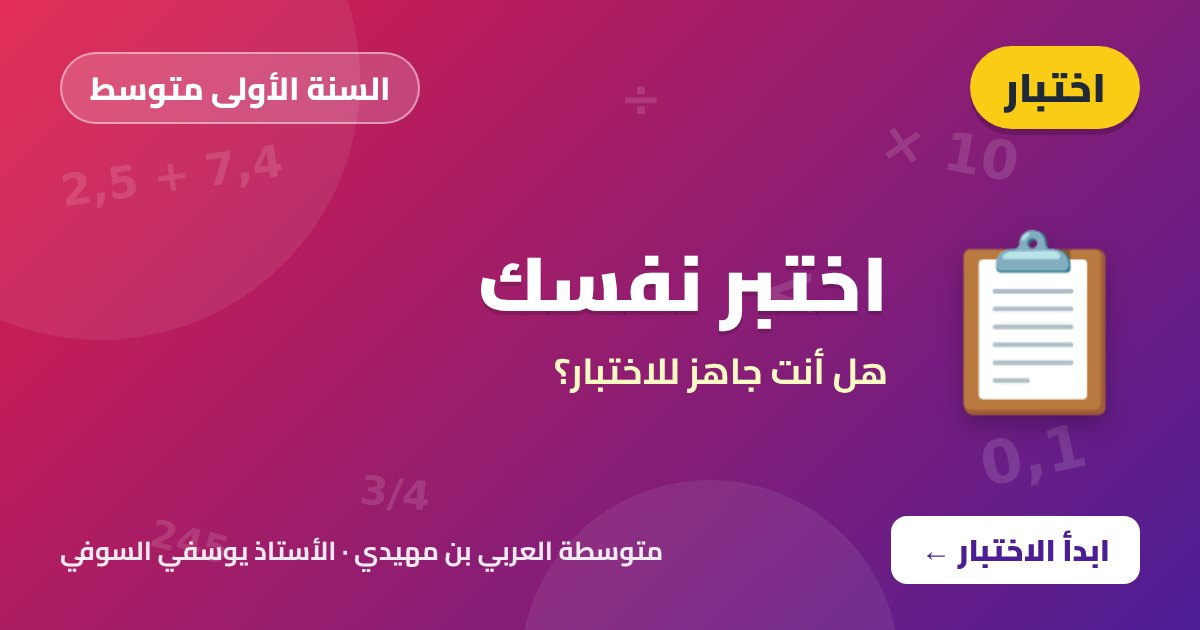
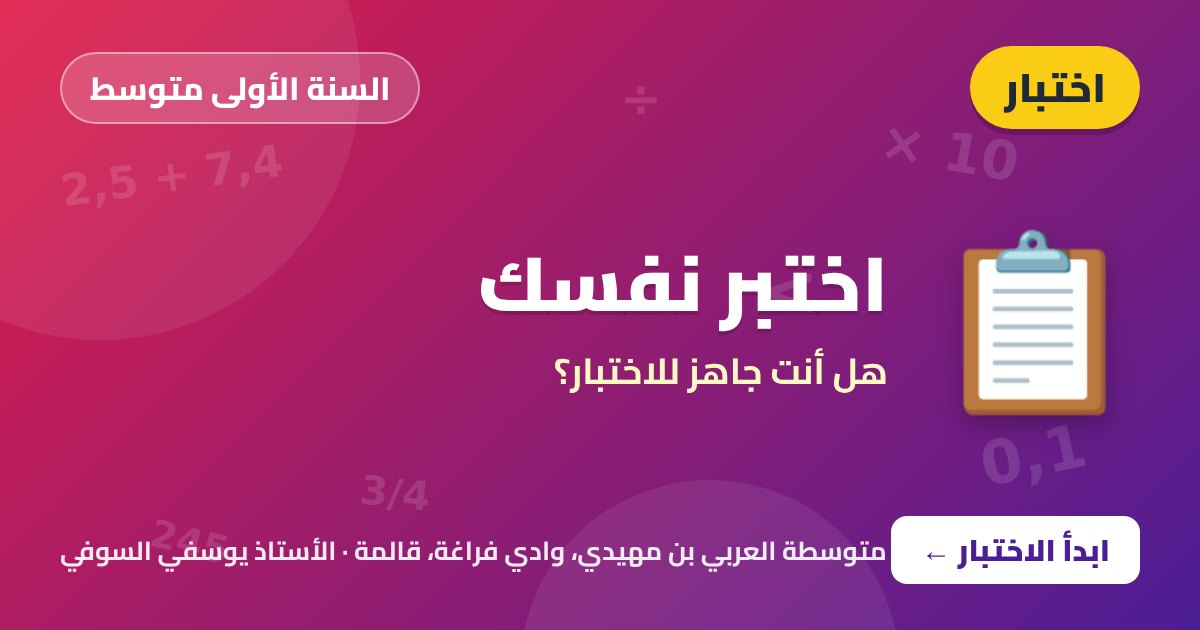
Header: add بلدية وادي فراغة، ولاية قالمة to the school name
Claude-Session: https://claude.ai/code/session_01V6732QDY9FsZ92T6wSKs86

Changed region(s): [[0.2775, 0.8444, 0.74, 0.9048]]

diff --git a/4m/t1/wadjib/wadjib-01.html b/4m/t1/wadjib/wadjib-01.html
@@ -11,7 +11,7 @@
 </head>
 <body>
 <div class="app">
-<header><div class="sub">الجمهورية الجزائرية الديمقراطية الشعبية وزارة التربية الوطنية متوسطة العربي بن مهيدي — الأستاذ: يوسفي السوفي</div><h1>الواجب المنزلي التفاعلي</h1><p>السنة الرابعة متوسط · المقطع الأول</p></header>
+<header><div class="sub">الجمهورية الجزائرية الديمقراطية الشعبية وزارة التربية الوطنية متوسطة العربي بن مهيدي، بلدية وادي فراغة، ولاية قالمة — الأستاذ: يوسفي السوفي</div><h1>الواجب المنزلي التفاعلي</h1><p>السنة الرابعة متوسط · المقطع الأول</p></header>
 <div class="wrap">
 <div class="scorebar"><strong>النتيجة</strong><span class="score" id="score">0 / 20</span><span id="progressText" class="tiny">أجب عن الأسئلة للبدء</span><div class="progress"><span id="progressFill"></span></div></div>
 <main id="quiz">

diff --git a/1m/t1/wadjib/wadjib-01.html b/1m/t1/wadjib/wadjib-01.html
@@ -11,7 +11,7 @@
 </head>
 <body>
 <div class="app">
-<header><div class="sub">متوسطة العربي بن مهيدي — الأستاذ: Soufi</div><h1>تمارين تفاعلية</h1><p>السنة الأولى متوسط · المقطع الأول: الأعداد الطبيعية والأعداد العشرية</p></header>
+<header><div class="sub">متوسطة العربي بن مهيدي، بلدية وادي فراغة، ولاية قالمة — الأستاذ: يوسفي السوفي</div><h1>تمارين تفاعلية</h1><p>السنة الأولى متوسط · المقطع الأول: الأعداد الطبيعية والأعداد العشرية</p></header>
 <div class="wrap">
 <div class="scorebar"><strong>النتيجة</strong><span class="score" id="score">0 / 20</span><span id="progressText" class="tiny">أجب عن الأسئلة للبدء</span><div class="progress"><span id="progressFill"></span></div></div>
 <main id="quiz">

diff --git a/2m/t1/fard/fard-01.html b/2m/t1/fard/fard-01.html
@@ -503,7 +503,7 @@
 <body>
 
     <header>
-        <div class="school-title">متوسطة العربي بن مهيدي — الأستاذ: يوسفي السوفي</div>
+        <div class="school-title">متوسطة العربي بن مهيدي، بلدية وادي فراغة، ولاية قالمة — الأستاذ: يوسفي السوفي</div>
         <h1>الفرض الأول التفاعلي في الرياضيات</h1>
         <div class="sub-info">المستوى: السنة الثانية متوسط | المقطع الأول: العمليات على الأعداد الطبيعية والأعداد العشرية، العمليات على الكسور<br>للتصحيح الذاتي بعد إنجاز الفرض على الورقة</div>
     </header>

diff --git a/3m/t1/fard/fard-01.html b/3m/t1/fard/fard-01.html
@@ -503,7 +503,7 @@
 <body>
 
     <header>
-        <div class="school-title">متوسطة العربي بن مهيدي — الأستاذ: يوسفي السوفي</div>
+        <div class="school-title">متوسطة العربي بن مهيدي، بلدية وادي فراغة، ولاية قالمة — الأستاذ: يوسفي السوفي</div>
         <h1>الفرض الأول التفاعلي في الرياضيات</h1>
         <div class="sub-info">المستوى: السنة الثالثة متوسط | المقطع الأول: الأعداد النسبية، العمليات على الكسور، الأعداد الناطقة<br>للتصحيح الذاتي بعد إنجاز الفرض على الورقة</div>
     </header>

diff --git a/4m/t1/tahaddi/tahaddi-01.html b/4m/t1/tahaddi/tahaddi-01.html
@@ -511,7 +511,7 @@
 <body>
 
     <header>
-        <div class="school-title">متوسطة العربي بن مهيدي — الأستاذ: يوسفي السوفي</div>
+        <div class="school-title">متوسطة العربي بن مهيدي، بلدية وادي فراغة، ولاية قالمة — الأستاذ: يوسفي السوفي</div>
         <h1>🏆 تحدي الرابعة متوسط: القواسم المشتركة</h1>
         <div class="sub-info">المستوى: السنة الرابعة متوسط | المقطع الأول: القواسم، PGCD، الأعداد الأوليان فيما بينهما<br>حلّ على الورقة أولا، ثم تحقّق هنا. هل تصل إلى 20/20؟</div>
     </header>

diff --git a/4m/t1/fard/fard-01.html b/4m/t1/fard/fard-01.html
@@ -503,7 +503,7 @@
 <body>
 
     <header>
-        <div class="school-title">متوسطة العربي بن مهيدي — الأستاذ: يوسفي السوفي</div>
+        <div class="school-title">متوسطة العربي بن مهيدي، بلدية وادي فراغة، ولاية قالمة — الأستاذ: يوسفي السوفي</div>
         <h1>الفرض الأول التفاعلي في الرياضيات</h1>
         <div class="sub-info">المستوى: السنة الرابعة متوسط | المقطع الأول: الأعداد الطبيعية والأعداد الناطقة والحساب على الجذور<br>للتصحيح الذاتي بعد إنجاز الفرض على الورقة</div>
     </header>

diff --git a/1m/t1/fard/fard-01.html b/1m/t1/fard/fard-01.html
@@ -503,7 +503,7 @@
 <body>
 
     <header>
-        <div class="school-title">متوسطة العربي بن مهيدي — الأستاذ: يوسفي السوفي</div>
+        <div class="school-title">متوسطة العربي بن مهيدي، بلدية وادي فراغة، ولاية قالمة — الأستاذ: يوسفي السوفي</div>
         <h1>الفرض الأول التفاعلي في الرياضيات</h1>
         <div class="sub-info">المستوى: السنة الأولى متوسط | المقطع الأول: الأعداد الطبيعية والأعداد العشرية<br>للتصحيح الذاتي بعد إنجاز الفرض على الورقة</div>
     </header>

diff --git a/2m/t1/fard/fard-02.html b/2m/t1/fard/fard-02.html
@@ -503,7 +503,7 @@
 <body>
 
     <header>
-        <div class="school-title">متوسطة العربي بن مهيدي — الأستاذ: يوسفي السوفي</div>
+        <div class="school-title">متوسطة العربي بن مهيدي، بلدية وادي فراغة، ولاية قالمة — الأستاذ: يوسفي السوفي</div>
         <h1>الفرض الثاني التفاعلي في الرياضيات</h1>
         <div class="sub-info">المستوى: السنة الثانية متوسط | المقطع الأول + الموردان 1 و2 من المقطع الثاني<br>للتصحيح الذاتي بعد إنجاز الفرض على الورقة</div>
     </header>

diff --git a/3m/t1/fard/fard-02.html b/3m/t1/fard/fard-02.html
@@ -503,7 +503,7 @@
 <body>
 
     <header>
-        <div class="school-title">متوسطة العربي بن مهيدي — الأستاذ: يوسفي السوفي</div>
+        <div class="school-title">متوسطة العربي بن مهيدي، بلدية وادي فراغة، ولاية قالمة — الأستاذ: يوسفي السوفي</div>
         <h1>الفرض الثاني التفاعلي في الرياضيات</h1>
         <div class="sub-info">المستوى: السنة الثالثة متوسط | المقطع الأول + الموردان 1 و2 من المقطع الثاني<br>للتصحيح الذاتي بعد إنجاز الفرض على الورقة</div>
     </header>

diff --git a/3m/t1/series/serie-20exo-m1.html b/3m/t1/series/serie-20exo-m1.html
@@ -511,7 +511,7 @@
 <body>
 
     <header>
-        <div class="school-title">متوسطة العربي بن مهيدي — الأستاذ: يوسفي السوفي</div>
+        <div class="school-title">متوسطة العربي بن مهيدي، بلدية وادي فراغة، ولاية قالمة — الأستاذ: يوسفي السوفي</div>
         <h1>سلسلة 20 تمرينا تفاعليا في الرياضيات</h1>
         <div class="sub-info">المستوى: السنة الثالثة متوسط (3م) | المقطع الأول: العمليات على الأعداد النسبية والكسرية والناطقة (حسب المخطط السنوي 2022)</div>
     </header>

diff --git a/4m/t1/fard/fard-02.html b/4m/t1/fard/fard-02.html
@@ -503,7 +503,7 @@
 <body>
 
     <header>
-        <div class="school-title">متوسطة العربي بن مهيدي — الأستاذ: يوسفي السوفي</div>
+        <div class="school-title">متوسطة العربي بن مهيدي، بلدية وادي فراغة، ولاية قالمة — الأستاذ: يوسفي السوفي</div>
         <h1>الفرض الثاني التفاعلي في الرياضيات</h1>
         <div class="sub-info">المستوى: السنة الرابعة متوسط | المقطع الأول + الموردان 1 و2 من المقطع الثاني<br>للتصحيح الذاتي بعد إنجاز الفرض على الورقة</div>
     </header>

diff --git a/1m/t1/fard/fard-02.html b/1m/t1/fard/fard-02.html
@@ -503,7 +503,7 @@
 <body>
 
     <header>
-        <div class="school-title">متوسطة العربي بن مهيدي — الأستاذ: يوسفي السوفي</div>
+        <div class="school-title">متوسطة العربي بن مهيدي، بلدية وادي فراغة، ولاية قالمة — الأستاذ: يوسفي السوفي</div>
         <h1>الفرض الثاني التفاعلي في الرياضيات</h1>
         <div class="sub-info">المستوى: السنة الأولى متوسط | المقطع الأول + الموردان 1 و2 من المقطع الثاني<br>للتصحيح الذاتي بعد إنجاز الفرض على الورقة</div>
     </header>
